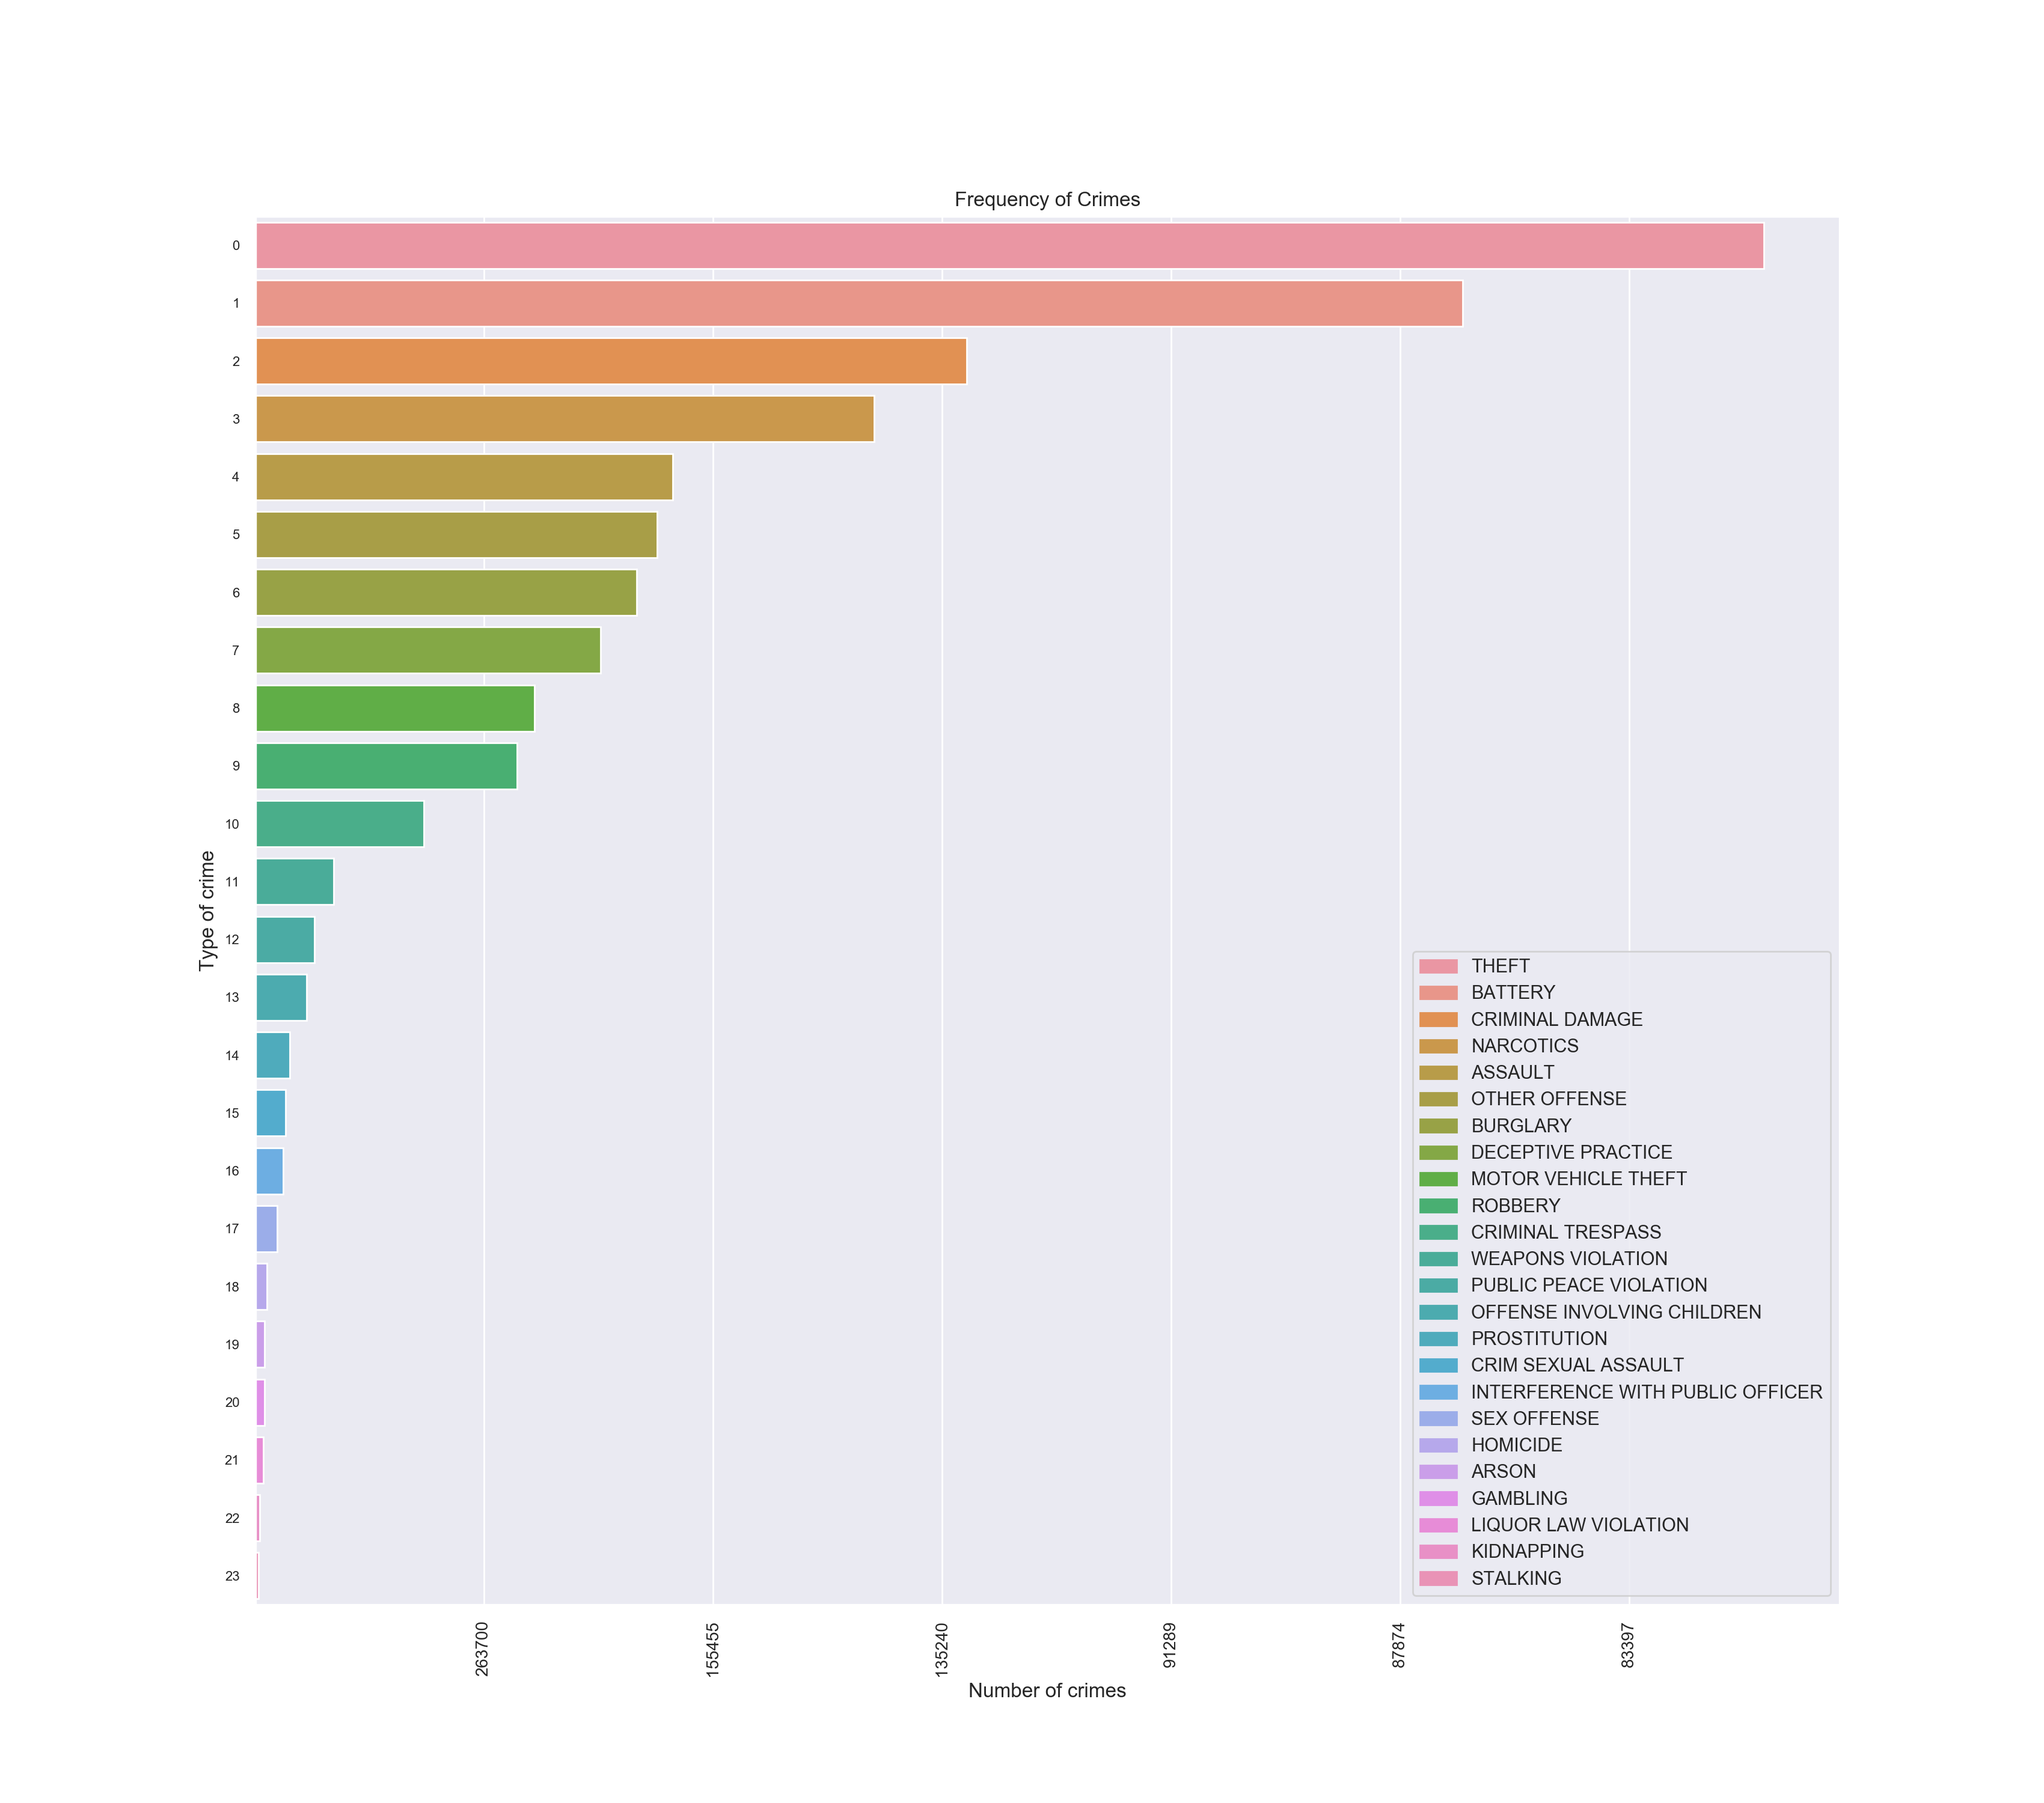
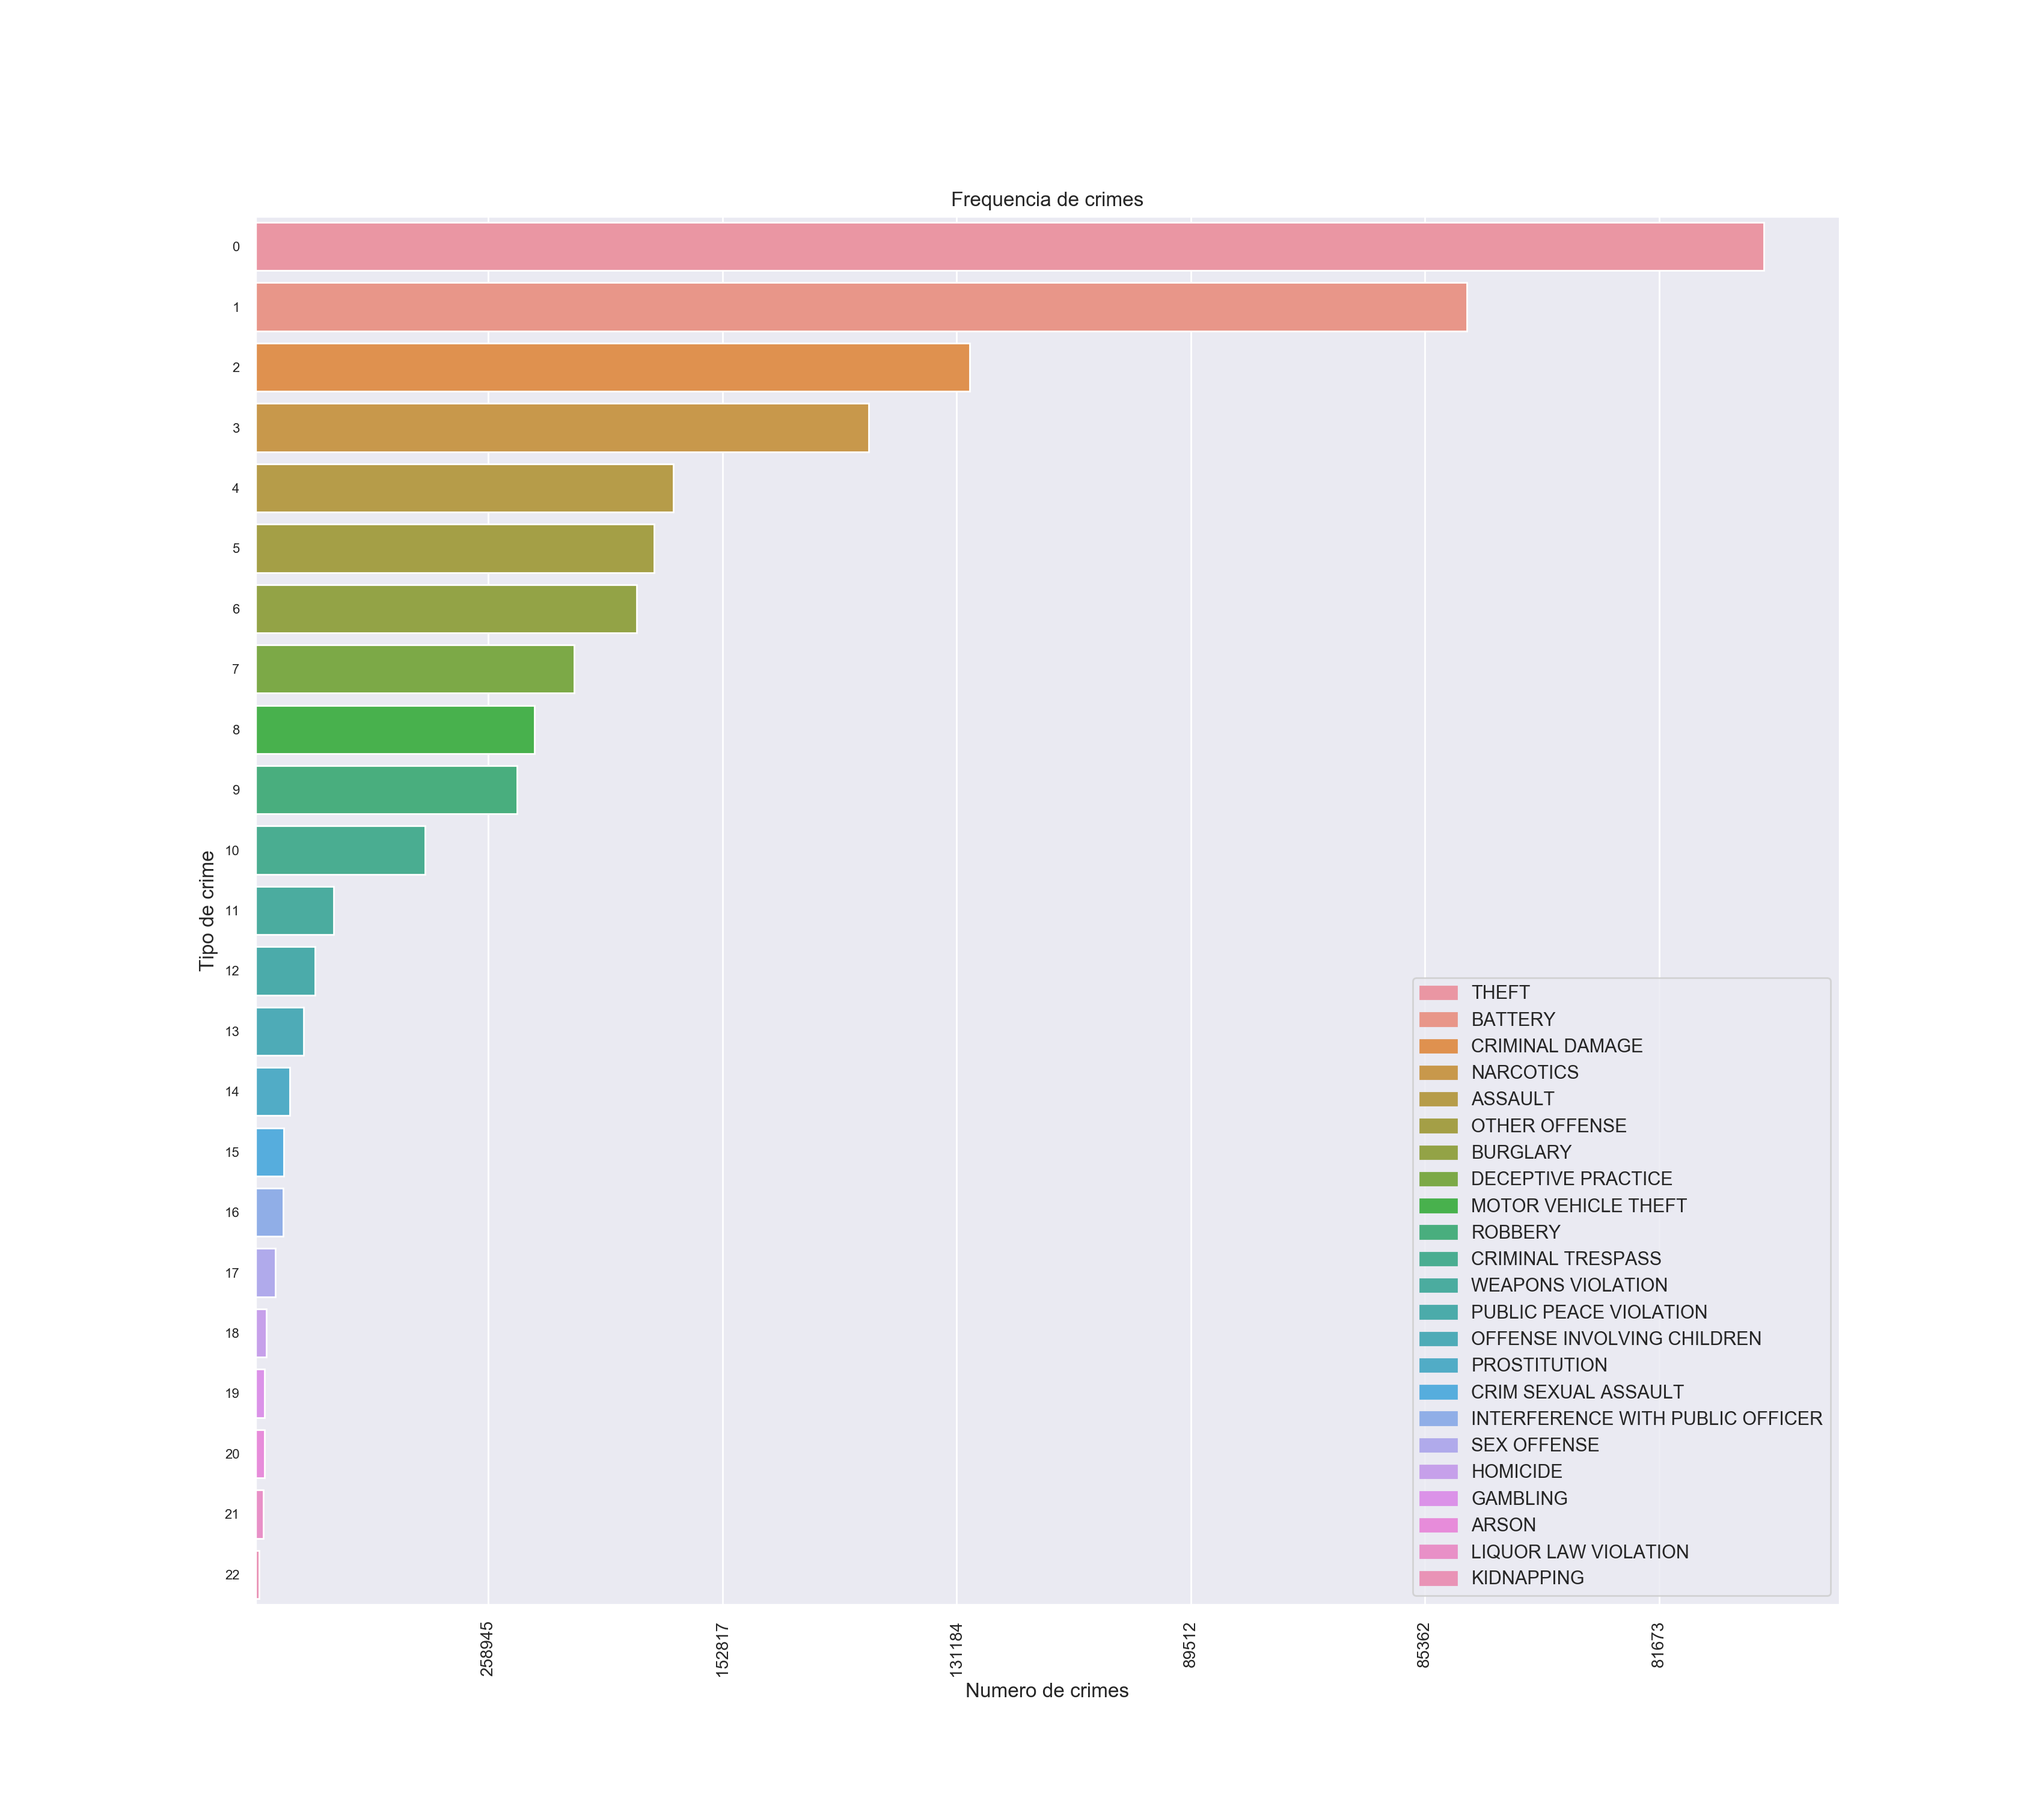
analise

diff --git a/trab_crimes/Analysis_crimes.py b/trab_crimes/Analysis_crimes.py
@@ -6,7 +6,12 @@ import gmplot
 import gmaps
 import ipywidgets as widgets
 import matplotlib.patches as pc
+import geopandas
+from shapely.geometry import Point
 import sys
+import os
+import math
+from sklearn import preprocessing
 
 args = sys.argv[1:]
 
@@ -19,6 +24,7 @@ def remove_objects(data):
     freq['index'] = x.index
     freq['values'] = x.values
     freq = freq.query('values > 800')
+
 
     return freq
 
@@ -36,71 +42,104 @@ def plot_hist(data):
     b.set_yticklabels(indx, fontsize=8)
     Boxes = [item for item in b.get_children() if isinstance(item, pc.Rectangle)][:-1]
     legend_patches = [pc.Patch(color=C, label=L) for C, L in zip([item.get_facecolor() for item in Boxes], index )]  
-    plt.title("Frequency of Crimes")
-    plt.ylabel('Type of crime', fontsize=12)
-    plt.xlabel('Number of crimes', fontsize=12)
-    plt.xlim(min(values)/4, 1.05 * max(values))
+    plt.title("Frequencia de crimes")
+    plt.ylabel('Tipo de crime', fontsize=12)
+    plt.xlabel('Numero de crimes', fontsize=12)
+    plt.xlim(0, 1.05 * max(values))
     plt.legend(handles=legend_patches)
     #plt.show()
     plt.savefig('crimes_freq.png', dpi=200)
     
 
 def drop_coord_nan(data):
-    data[['X Coordinate', 'Y Coordinate']] = data[['X Coordinate', 'Y Coordinate']].replace(0, np.nan)
+    data = data.drop(columns=['X Coordinate', 'Y Coordinate'])
+    #data[['X Coordinate', 'Y Coordinate']] = data[['X Coordinate', 'Y Coordinate']].replace(0, np.nan)
     data[['Latitude', 'Longitude']] = data[['Latitude', 'Longitude']].replace(0, np.nan)
-    data.dropna()
+    #data.dropna()
     #data = data.drop(columns=['X Coordinate','Y Coordinate'])
     
+    data_rm = data[np.isnan(data['Latitude'])]
+    data_rm = data[np.isnan(data['Longitude'])]
+
+    index = data_rm.index.values.tolist()
+
+    data = data.drop(index=index)
 
     return data
 
 def draw_map(data):
-    #latitude_list = [30.3358376, 30.307977, 30.3216419, 30.3427904, 30.378598, 30.3548185, 30.3345816, 30.387299, 30.3272198, 30.3840597, 30.4158, 30.340426, 30.3984348, 30.3431313, 30.273471] 
-  
-    #longitude_list = [77.8701919, 78.048457, 78.0413095, 77.886958,77.825396, 77.8460573, 78.0537813, 78.090614, 78.0355272, 77.9311923, 77.9663, 77.952092, 78.0747887, 77.9555512, 77.9997158] 
-    
-    #gmap1 = gmplot.GoogleMapPlotter()
-    #gmap1.apikey = ""
-    #data = gmaps.datasets.load_dataset('taxi_rides')
-    #gmaps.heatmap(data)
-    #gmap1.heatmap([41.8922738],[-87.815903],10,10)
-    #gmap1.draw("/home/erjulioaguiar/Documentos/map14.html")
-    #gmap1.display(h)
 
-    #gmaps.configure(api_key='')
-    #new_york_coordinates = [[40.75, -74.00]]
+    lat = data['Latitude'].values
+    longi = data['Longitude'].values
 
-    #locations = fooDF[['latitude', 'longitude']]
-    #fig = gmaps.figure()
-    #fig = gmaps.figure(map_type='TERRAIN')
-    #fig.add_layer(gmaps.heatmap_layer(new_york_coordinates))
-    #fig
+    gmap = gmplot.GoogleMapPlotter(41.8781, -87.6298, 16,apikey='')
+    #gmap.plot(lat, longi, 'cornflowerblue', edge_width=10)
+    #gmap.scatter(lat, longi, '#3B0B39', marker=True)
+    #gmap.plot(lat, longi, 'cornflowerblue')
+    #gmap.scatter(lat, longi, 'k', marker=True)
+    gmap.heatmap(lat, longi)
+    #gmap.marker(lat,longi)
+    gmap.draw("heat_map.html")
 
-    lat = data['X Coordinate'].values
-    longi = data['Y Coordinate'].values
-
-
-    gmap = gmplot.GoogleMapPlotter(lat[0], longi[0], zoom=30)
-    gmap.apikey = ''
-    gmap.heatmap(lat[1:6], longi[1:6],radius=10)
-    #gmaps.configure(api_key='')
-    #gmap.plot(lat[1], longi[1], 'cornflowerblue')
-    #gmap.scatter(lat[2:6], longi[2:6], '#3B0B39', size=40, marker=False)
-    gmap.draw("crimes_map.html")
 
 def correlation(data):
     c = data.corr()
-    plt.rcParams['figure.figsize'] = (14,14)
-    sns.heatmap(c, annot=True, linewidths=0.8)
-    plt.title("Correlation Type of crime")
+    plt.rcParams['figure.figsize'] = (20,20)
+    sns.heatmap(c, annot=True, linewidths=0.1)
+    plt.title("Correlacao do tipo de crime")
     plt.savefig('heat_map.png', dpi=170)
-      
-#def clean(data):
-#    data = data.drop(columns=['Unnamed: 0','ID'])
-#   data = drop_coord_nan(data)
-#    data = remove_objects(data)
 
-#    return data
+def crimes_time(data):
+    #data = data[data['Year'] != 2017]
+    freq = data['Year'].value_counts()
+    plt.rcParams['figure.figsize'] = (14,14)
+    plt.plot(freq.index,freq.values)
+    plt.title("Criminalidade durantes os anos")
+    plt.ylabel('Numero de crimes', fontsize=12)
+    plt.xlabel('Ano', fontsize=12)
+    plt.savefig('crimes_ano2.png', dpi=200)
+    #plt.show()
+
+      
+''' filter: NaN values '''
+
+def nan_filter(data):
+    
+    data = data.dropna()
+    
+    
+    return data
+
+def obj_filter(data):
+    
+    obj_data = data.select_dtypes(include=['object']).copy()
+
+    col = list(obj_data.columns)
+
+    for i in range(len(col)):
+        
+        obj_data[col[i]] = obj_data[col[i]].astype('category')
+        data[col[i]] = obj_data[col[i]].cat.codes
+    
+    return data
+
+def normalization(data):
+    
+    x = data.values #returns a numpy array
+    min_max_scaler = preprocessing.MinMaxScaler()
+    x_scaled = min_max_scaler.fit_transform(x)
+    res = pd.DataFrame(x_scaled, columns= data.columns, index=data.index)
+    
+    return res
+
+def clean(data):
+    new_data = nan_filter(data)
+    new_data = obj_filter(new_data)
+    new_data = normalization(new_data)
+
+    return new_data
+
+
     
 
 
@@ -109,10 +148,19 @@ if __name__ == '__main__':
     crimes = pd.read_csv('Chicago_Crimes_2012_to_2017.csv')
     
     global df_crimes
-    
+
+    global remov 
+    remov = {}
+    remov["corr_filter"] = []
+    remov["nan_filter"] = []
+    remov["desc_filter"] = []
+
+    print(crimes.count())
+
     if args[0] == 'correlacao':
         print('Calculando Correlacao ...')
         df_crimes = crimes.drop(columns=['Unnamed: 0','ID'])
+        df_crimes = clean(df_crimes)
         correlation(df_crimes)
         print('Completo!')
     elif args[0] == 'hist':
@@ -121,6 +169,17 @@ if __name__ == '__main__':
         freq = remove_objects(df_crimes)
         plot_hist(freq)
         print('Completo!')
+    
+    elif args[0] == 'maps':
+        df_crimes = crimes.drop(columns=['Unnamed: 0','ID'])
+        df_crimes = drop_coord_nan(crimes)
+        draw_map(df_crimes)
+    
+    elif args[0] == 'time':
+        df_crimes = crimes.drop(columns=['Unnamed: 0','ID'])
+        df_crimes = drop_coord_nan(crimes)
+        crimes_time(df_crimes)
+    
     else:
         print('Processando tudo ...')
         
